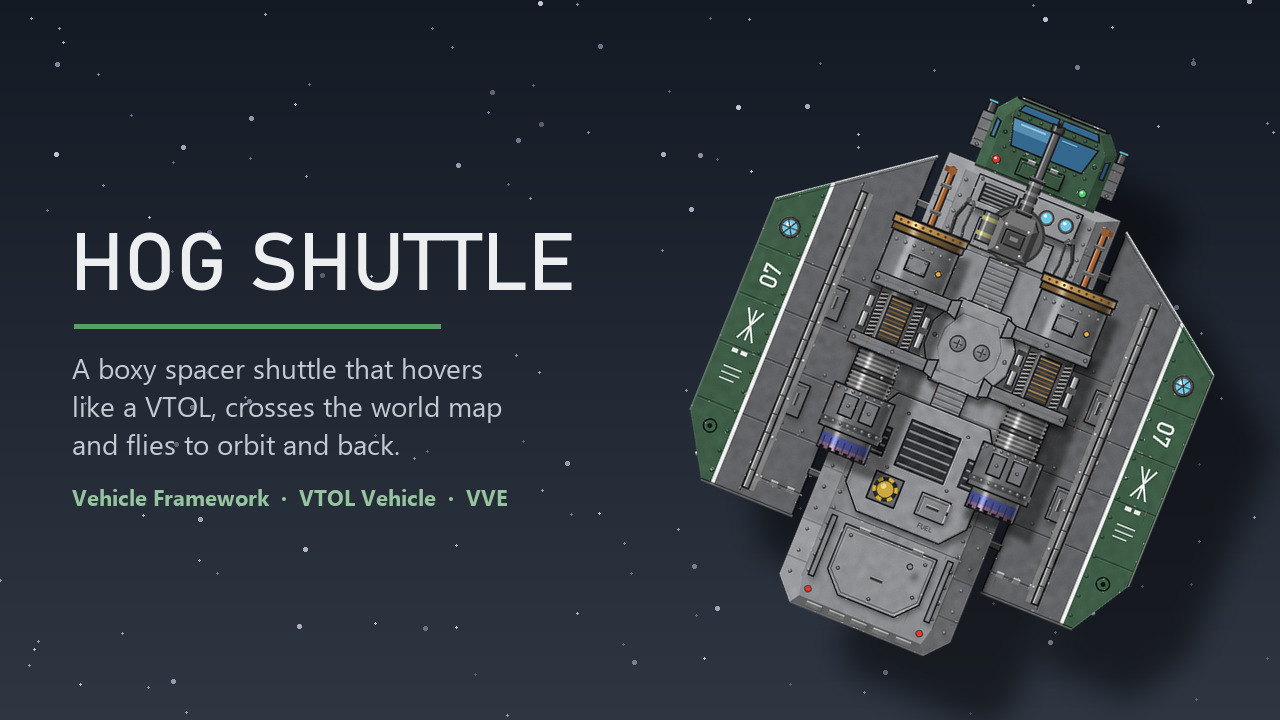
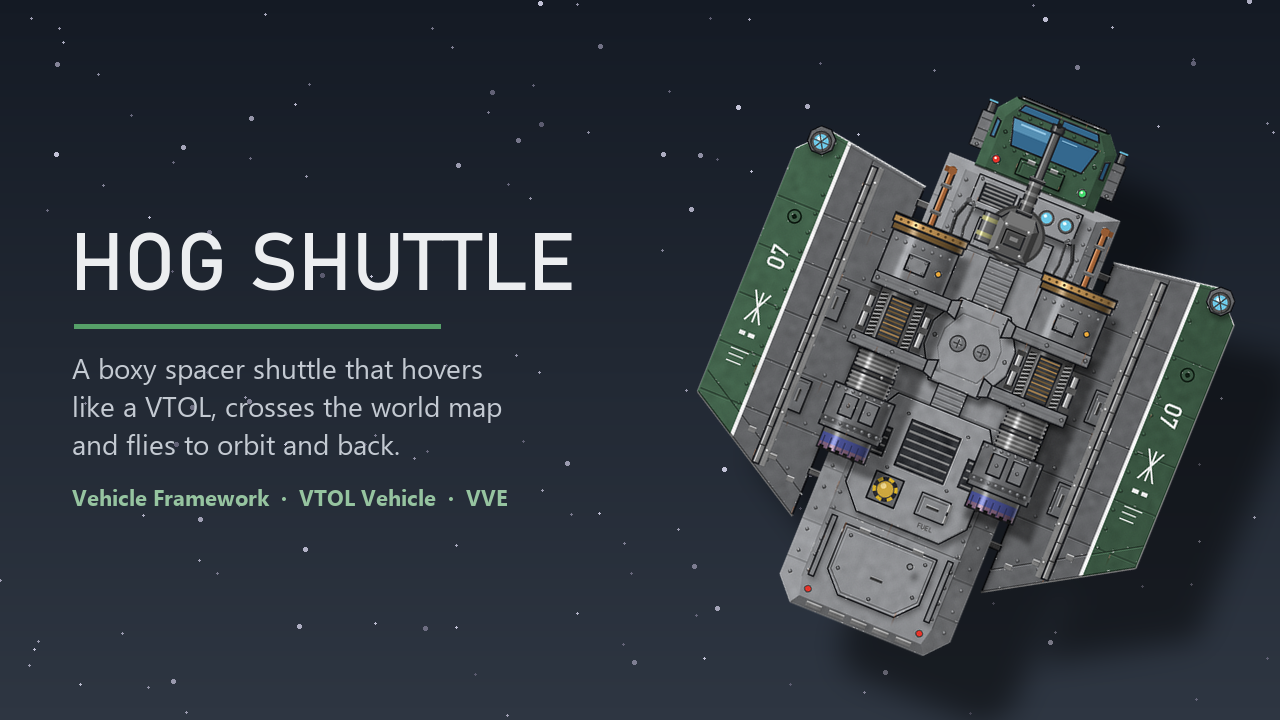
Art: wings in the kit's shape
The leading edge now runs almost straight out to a cut front corner with the
lamp in a pod, and the trailing edge is one long diagonal with a flap along it,
in place of the swept-back leading edge. The outer panel is shaded as turning
down, and the ring moves towards the front.

diff --git a/Source/Art/body_views.py b/Source/Art/body_views.py
@@ -248,13 +248,28 @@ class Canvas:
 
 
 WING_GAP = 0.12           # open air between the hull's side and the wing, as on the kit: they join only at the struts
+WING_CORNER = 0.34        # how far in from the tip the front corner is cut
 
 
 def wing_outline(side):
-    """Port (-1) or starboard (+1) wing: rows 2-6, from just off the hull out to one cell past the footprint."""
+    """Port (-1) or starboard (+1) wing, as the kit's from above: a slab standing off the hull's side, one cell past the
+    footprint. The leading edge runs almost straight out, a little forward, to a cut front corner; the outer edge is
+    straight; the trailing edge is one long diagonal, so the wing is a cell longer at the hull than at the tip.
+    Returns the outline, the root and tip x, and the leading and trailing edges as functions of x."""
     root, tip = (B - 0.15 - WING_GAP, A - 0.95) if side < 0 else (D + 0.15 + WING_GAP, END + 0.95)
-    back = tip - side * 0.45
-    return [(root, 1.1), (tip, 2.35), (tip, 5.2), (back, 5.95), (root, 5.95)], root, tip
+    span = abs(tip - root)
+    corner = span - WING_CORNER
+
+    def lead(x):
+        u = abs(x - root)
+        return 1.52 - 0.2 * u / corner if u <= corner else 1.32 + (u - corner) / WING_CORNER * 0.36
+
+    def trail(x):
+        return 5.95 - abs(x - root) / span
+
+    pts = [(root, lead(root)), (root + side * corner, lead(root + side * corner)), (tip, lead(tip)), (tip, trail(tip)),
+           (root, trail(root))]
+    return pts, root, tip, lead, trail
 
 
 TAIL = 6.96
@@ -263,58 +278,79 @@ HULL_PTS = [(B - 0.15, 1.0), (D + 0.15, 1.0), (D + 0.15, 6.68), (D - 0.1, TAIL),
 
 
 def wing(v, side):
-    """One wing, the lowest surface: plates with seams and rivets, inspection plates, a flap at the trailing edge, the
-    hinge the tip folds on, and the band along the outer edge with its white line, number, stencil, ring and caged lamp."""
-    pts, root, tip = wing_outline(side)
+    """One wing, the lowest surface: plates with seams and rivets, inspection plates, a flap along the trailing edge, the
+    hinge the tip folds on, and the outer panel, turned down a little, with its white line, number, stencil and ring.
+    The caged lamp sits in a pod at the front corner."""
+    pts, root, tip, lead, trail = wing_outline(side)
     v.poly(pts, 168, WING)
-    seams = (2.95, 3.6, 4.25, 5.0)
+
+    def within(x, y, margin=0.05):
+        return lead(x) + margin < y < trail(x) - margin
+
+    def reach(y):
+        """How far out a line across the wing at y can run before it meets the trailing edge."""
+        return tip if y < trail(tip) else root + side * (5.95 - y) * abs(tip - root)
+
+    seams = (2.3, 2.95, 3.6, 4.25, 4.9)
     for y in seams:
-        v.groove([(root, y), (tip, y)], 168)
+        v.groove([(root, y), (reach(y + 0.03), y)], 168)
     fold = A if side < 0 else END                                           # a plate seam where the tip folds
-    v.groove([(fold, 1.75), (fold, 5.9)], 168)
-    for y in (2.75, 3.4, 4.05, 4.8, 5.55):                                  # rivet rows along the plate seams
+    v.groove([(fold, lead(fold) + 0.04), (fold, trail(fold) - 0.04)], 168)
+    for y in (2.1, 2.75, 3.4, 4.05, 4.7, 5.3):                              # rivet rows along the plate seams
         for k in (1, 2, 4, 5):
-            v.rivet(root + (tip - root) * k / 6, y + 0.12)
-    # The flap: a seam ahead of the trailing edge with three hinge knuckles, between the hull side and the fold.
-    v.groove([(root, 5.66), (fold, 5.66)], 168)
-    for k in (0.2, 0.5, 0.8):
-        hx = root + (fold - root) * k
-        v.rect(hx - 0.045, 5.63, hx + 0.045, 5.7, 118, NONE, outline=False)
-        v.line([(hx - 0.045, 5.635), (hx + 0.045, 5.635)], 216, 0.01)
-    # Inspection plates on the strip between the band and the hinge.
+            x = root + (tip - root) * k / 6
+            if within(x, y + 0.12, 0.1):
+                v.rivet(x, y + 0.12)
+    # The flap: a seam a little ahead of the trailing edge, with hinge knuckles along it.
+    v.groove([(root, trail(root) - 0.3), (tip, trail(tip) - 0.3)], 168)
+    for k in (0.12, 0.3, 0.52, 0.7, 0.9):
+        hx = root + (tip - root) * k
+        hy = trail(hx) - 0.3
+        v.rect(hx - 0.045, hy - 0.03, hx + 0.045, hy + 0.04, 118, NONE, outline=False)
+        v.line([(hx - 0.045, hy - 0.025), (hx + 0.045, hy - 0.025)], 216, 0.01)
+    # Inspection plates on the strip between the outer panel and the hinge.
     sx = fold - side * 0.34
-    for y in (3.06, 4.36):
+    for y in (3.06, 4.3):
         v.hatch(min(sx, sx + side * 0.22), y, max(sx, sx + side * 0.22), y + 0.44, 176, WING, across=False, hinges="x")
-    # The band: from the wing's edge in to bx, following the leading edge and the rear chamfer.
+    # The outer panel: the strip along the outer edge, which turns down, so it's lit on the port side and shaded on
+    # the starboard. Green by default.
     bx = tip - side * 0.6
-    lead = 1.1 + (bx - root) / (tip - root) * 1.25
-    band = [(bx, lead), pts[1], pts[2], pts[3], (bx, 5.95)]
-    v.poly(band, 186, ARMOUR, outline=False)
+    band = [(bx, lead(bx)), pts[2], pts[3], (bx, trail(bx))]
+    if abs(bx - root) < abs(pts[1][0] - root):                              # the panel starts inboard of the cut corner
+        band.insert(1, pts[1])
+    v.poly(band, 198 if side < 0 else 170, ARMOUR, outline=False)
     for y in seams:
-        v.groove([(bx, y), (tip, y)], 186)
+        if y < trail(bx) - 0.05:
+            v.groove([(bx, y), (reach(y + 0.03), y)], 186)
+    v.groove([(bx, trail(bx) - 0.3), (tip, trail(tip) - 0.3)], 186)
 
     def stencil(points, width=0.022):
         v.line(points, WHITE_LINE, width)
         v.m.line(v.pts(points), fill=NONE, width=v.w(width))
 
-    stencil([(bx, lead), (bx, 5.95)], 0.045)                                # the white line
-    v.rivets(bx + side * 0.07, lead + 0.2, bx + side * 0.07, 5.8, 15)
+    stencil([(bx, lead(bx)), (bx, trail(bx))], 0.045)                       # the white line
+    v.rivets(bx + side * 0.07, lead(bx) + 0.22, bx + side * 0.07, trail(bx) - 0.42, 14)
     ex = tip - side * 0.3
-    v.text(ex, 3.27, "07", 0.3, angle=-90 * side)                           # the number reads from outboard
+    v.d.ellipse([v.p(ex - 0.09, 2.38), v.p(ex + 0.09, 2.56)], outline=(44, 56, 48, 255), width=v.w(0.018))
+    v.dot(ex, 2.47, 0.03, (44, 56, 48), None)                               # the ring, towards the front as on the kit
+    v.text(ex, 3.02, "07", 0.3, angle=-90 * side)                           # the number reads from outboard
     for dx in (-0.1, 0, 0.1):                                               # stencil: three arrows, crossed
-        stencil([(ex - dx, 3.74), (ex + dx, 4.14)])
-    stencil([(ex - 0.1, 4.3), (ex - 0.02, 4.3)], 0.05)
-    stencil([(ex + 0.02, 4.3), (ex + 0.1, 4.3)], 0.05)
-    for y in (4.52, 4.6, 4.68):                                             # a block of stencilled lines
-        stencil([(ex - 0.12, y), (ex + 0.12 - 0.05 * (y > 4.6), y)], 0.014)
-    v.d.ellipse([v.p(ex - 0.09, 5.2), v.p(ex + 0.09, 5.38)], outline=(44, 56, 48, 255), width=v.w(0.018))
-    v.dot(ex, 5.29, 0.03, (44, 56, 48), None)
-    v.line([pts[0], pts[1]], 216, 0.034)                                    # leading edge catches the light
+        stencil([(ex - dx, 3.5), (ex + dx, 3.9)])
+    stencil([(ex - 0.1, 4.06), (ex - 0.02, 4.06)], 0.05)
+    stencil([(ex + 0.02, 4.06), (ex + 0.1, 4.06)], 0.05)
+    for y in (4.28, 4.36, 4.44):                                            # a block of stencilled lines
+        stencil([(ex - 0.12, y), (ex + 0.12 - 0.05 * (y > 4.3), y)], 0.014)
+    # Edges: the leading edge and the cut corner catch the light, the trailing edge is in shade.
+    v.line([pts[0], pts[1]], 216, 0.034)
     v.line([(pts[0][0], pts[0][1] + 0.04), (pts[1][0], pts[1][1] + 0.04)], 132, 0.012)
-    v.line([pts[3], pts[4]], 108, 0.035)                                    # trailing edge
-    v.line([pts[1], pts[2]], 140 if side > 0 else 204, 0.022)               # the outer edge
-    # Caged lamp at the leading corner: a dome, so it shows from above.
-    lx, ly = ex, 2.62
+    v.line([pts[1], pts[2]], 222 if side < 0 else 186, 0.03)
+    v.line([pts[2], pts[3]], 140 if side > 0 else 204, 0.022)               # the outer edge
+    v.line([pts[3], pts[4]], 108, 0.035)                                    # the trailing edge
+    # The lamp pod at the front corner: a housing that stands a little ahead of the leading edge, and the caged dome.
+    lx, ly = pts[1][0] + side * 0.08, pts[1][1] + 0.16
+    pod = [(lx + 0.185 * math.cos(math.radians(22.5 + 45 * k)), ly - 0.02 + 0.185 * math.sin(math.radians(22.5 + 45 * k)))
+           for k in range(8)]
+    v.plate(pod, 150, HULL, lift=0.04, shade=0.35, bevel=0.02)
     v.dot(lx, ly, 0.135, 44, NONE)
     v.dot(lx, ly, 0.12, 84, NONE)
     v.dot(lx, ly, 0.092, LAMP_CYAN, NONE)
@@ -332,7 +368,7 @@ def wing(v, side):
     # barrel lying lengthwise, cut into knuckles, with a riveted leaf on the wing side. Unpainted.
     hx = A if side < 0 else END - 0.1
     leaf = A + 0.1 if side < 0 else END - 0.17
-    y0, y1 = 1.85, 5.85
+    y0, y1 = lead(fold) + 0.1, trail(fold - side * 0.17) - 0.1
     v.rect(leaf, y0, leaf + 0.07, y1, 128, NONE, outline=False)
     for k in range(8):
         v.rivet(leaf + 0.035, y0 + 0.2 + k * (y1 - y0 - 0.4) / 7)

diff --git a/DESIGN.md b/DESIGN.md
@@ -318,9 +318,13 @@ from the north-west and shadows cast down-right onto lower surfaces.
   below it is a vertical face, so it isn't visible from above.
 - **Gaps:** wing and hull don't join. A 0.12-cell slit of open air runs between them; the turbofans bridge it in rows
   3–5, and a strut crosses it in row 2 and in row 6. All art only, no hitbox change.
-- **Wings:** panel lines and rivets, with a green band along the outer edge, a white line, a stencil of three crossed
-  arrows, a ring and a caged lamp at the leading corner. The band and its details are on the wing tips, so they show only
-  while the engines run; the hinge and inner wing stay with the parked body.
+- **Wings** (`wing_outline()`): the kit's shape from above. The leading edge runs almost straight out from behind the
+  cockpit, a little forward, to a cut front corner that carries the caged lamp in an eight-sided pod. The outer edge is
+  straight, and the trailing edge is one long diagonal, so the wing is a cell longer at the hull than at the tip, with a
+  flap seam and hinge knuckles along it. The outer panel, green by default, turns down a little: lit on the port side,
+  shaded on the starboard. It carries the white line, a ring towards the front, the number 07 and stencilling. That
+  panel, the lamp pod and the tip are on the wing tips, so they show only while the engines run; the hinge and inner wing
+  stay with the parked body. Before 2026-11-10 the leading edge swept back from the root, unlike the kit's.
 - **Skids:** hidden under the hull and wings.
 - **Detail pass** (2026-11-10, after a review against the kit): raised plates with bevelled edges lit from the north-west,
   rivet rows along the roof's edges and chamfers, bolts, hatches with handles and hinges, louvred vents, ribbed conduits
